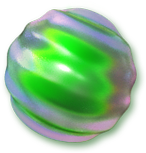
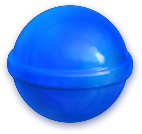
Randomize candy texture and delete ugly images

diff --git a/core/src/ru/mofr/popballs/factories/CandyFactory.java b/core/src/ru/mofr/popballs/factories/CandyFactory.java
@@ -8,9 +8,14 @@ import ru.mofr.popballs.components.PoppableComponent;
 import ru.mofr.popballs.components.PositionComponent;
 import ru.mofr.popballs.components.SpriteComponent;
 
+import java.util.Random;
+
 public class CandyFactory {
+    private static final Random random = new Random();
+
     public static int create(World world, double x, double y) {
-        Texture texture = new Texture("candy10.png");
+        String textureFilename = "candy" + (random.nextInt(6) + 1) + ".png";
+        Texture texture = new Texture(textureFilename);
         texture.setFilter(Texture.TextureFilter.Linear, Texture.TextureFilter.Linear);
 
         int entity = world.create();
